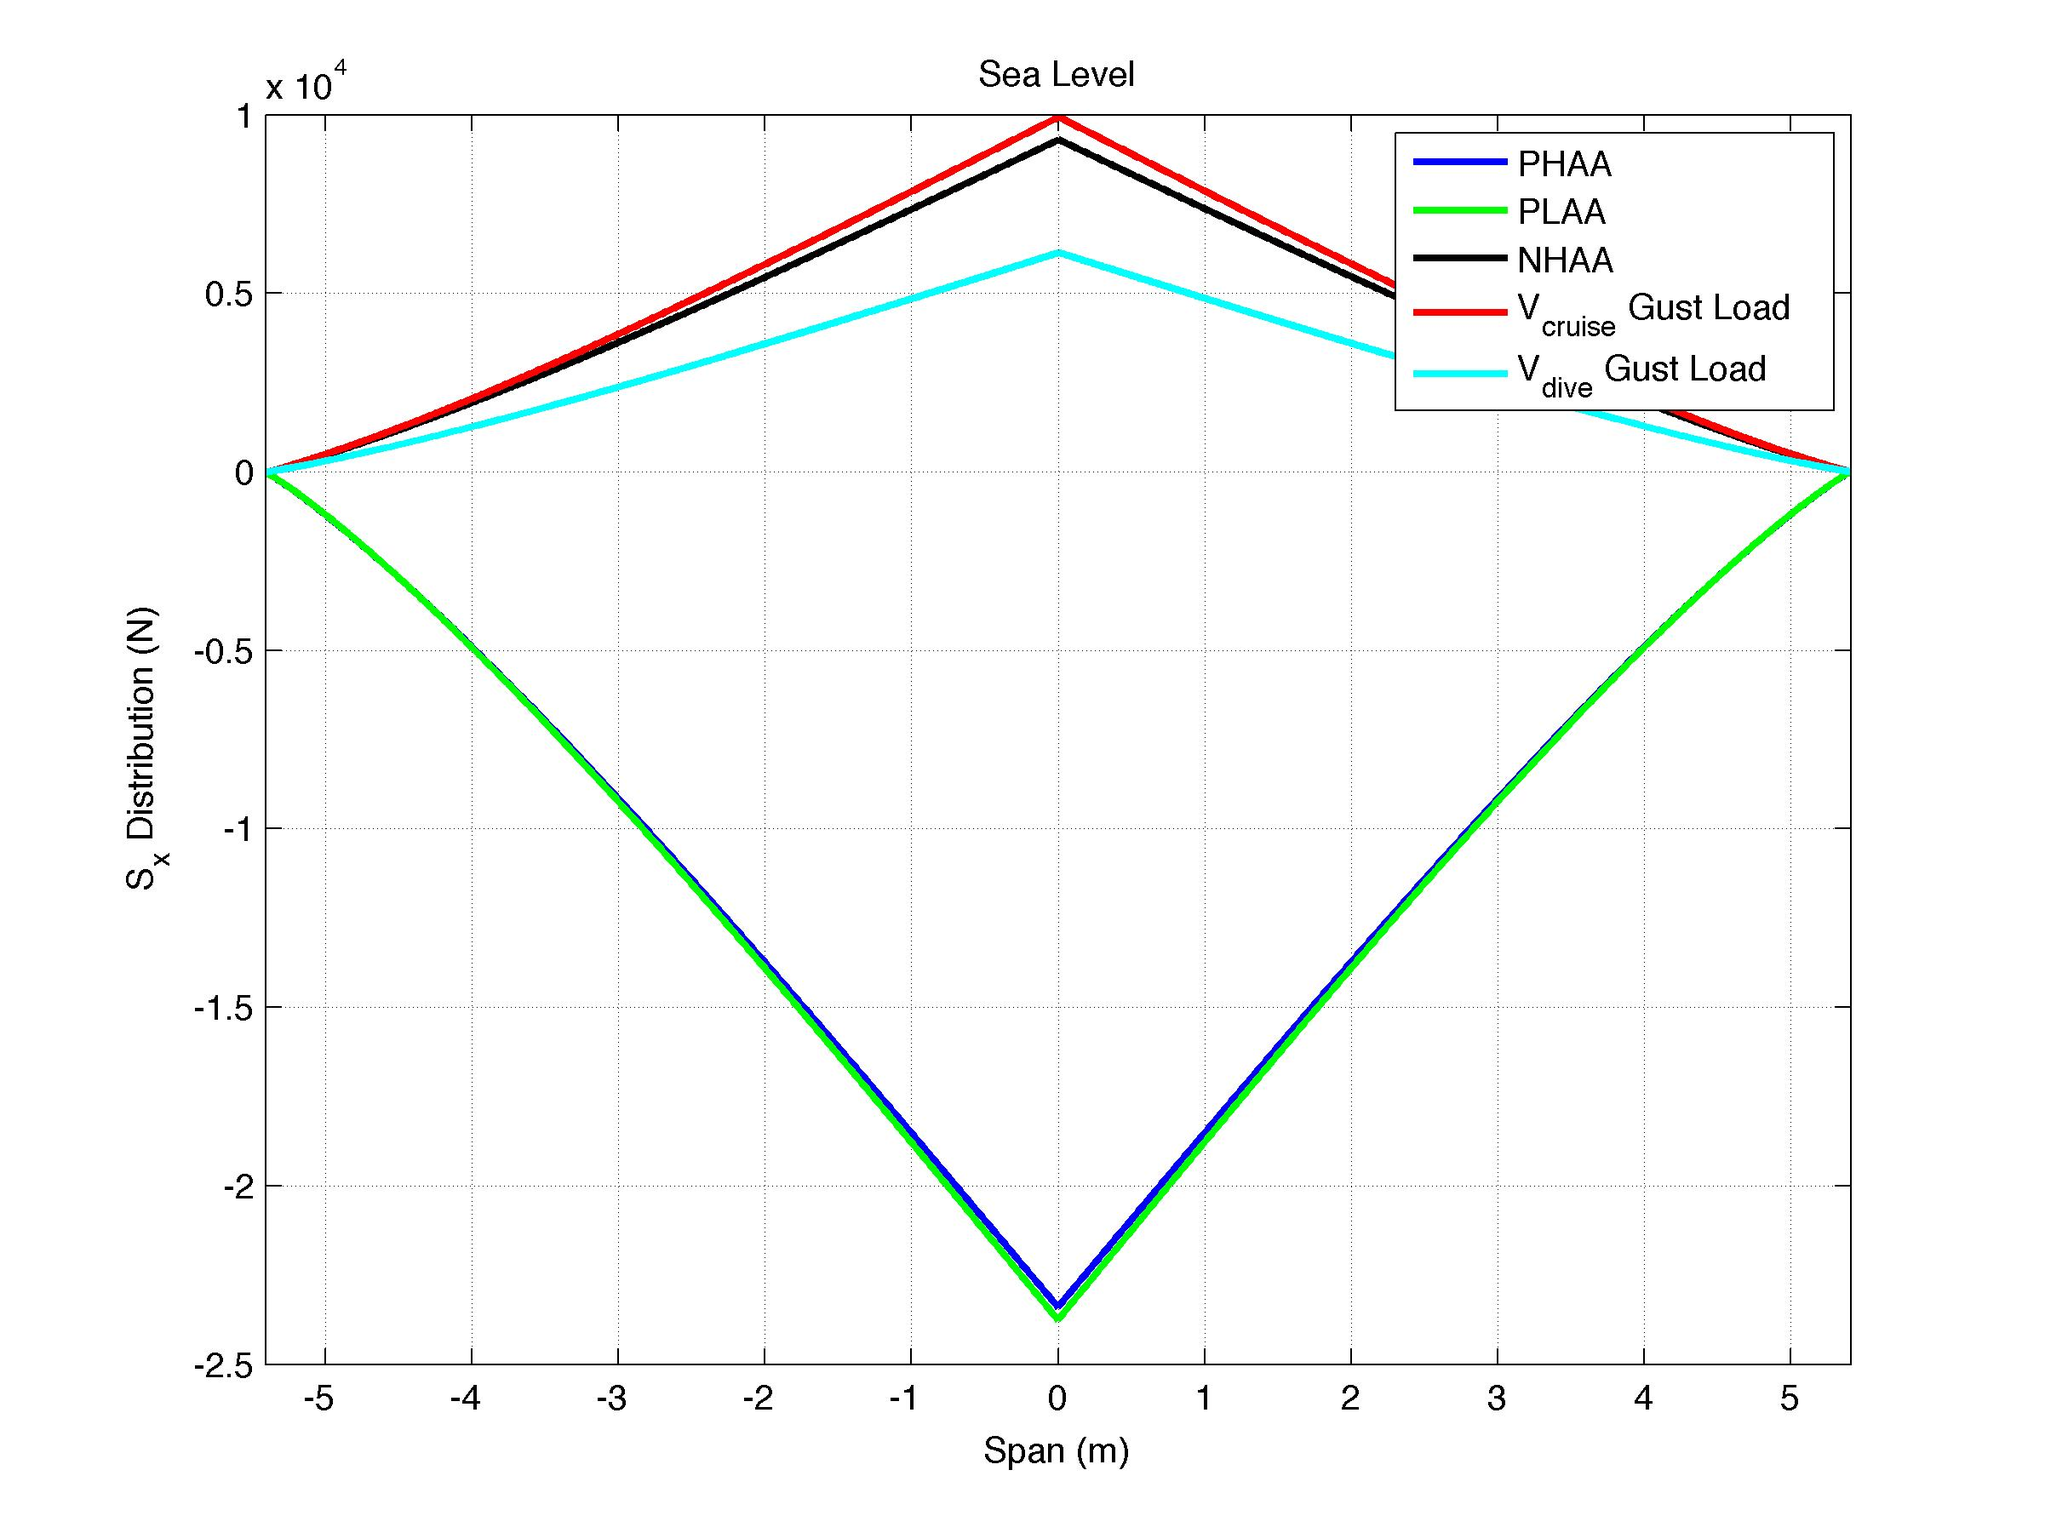
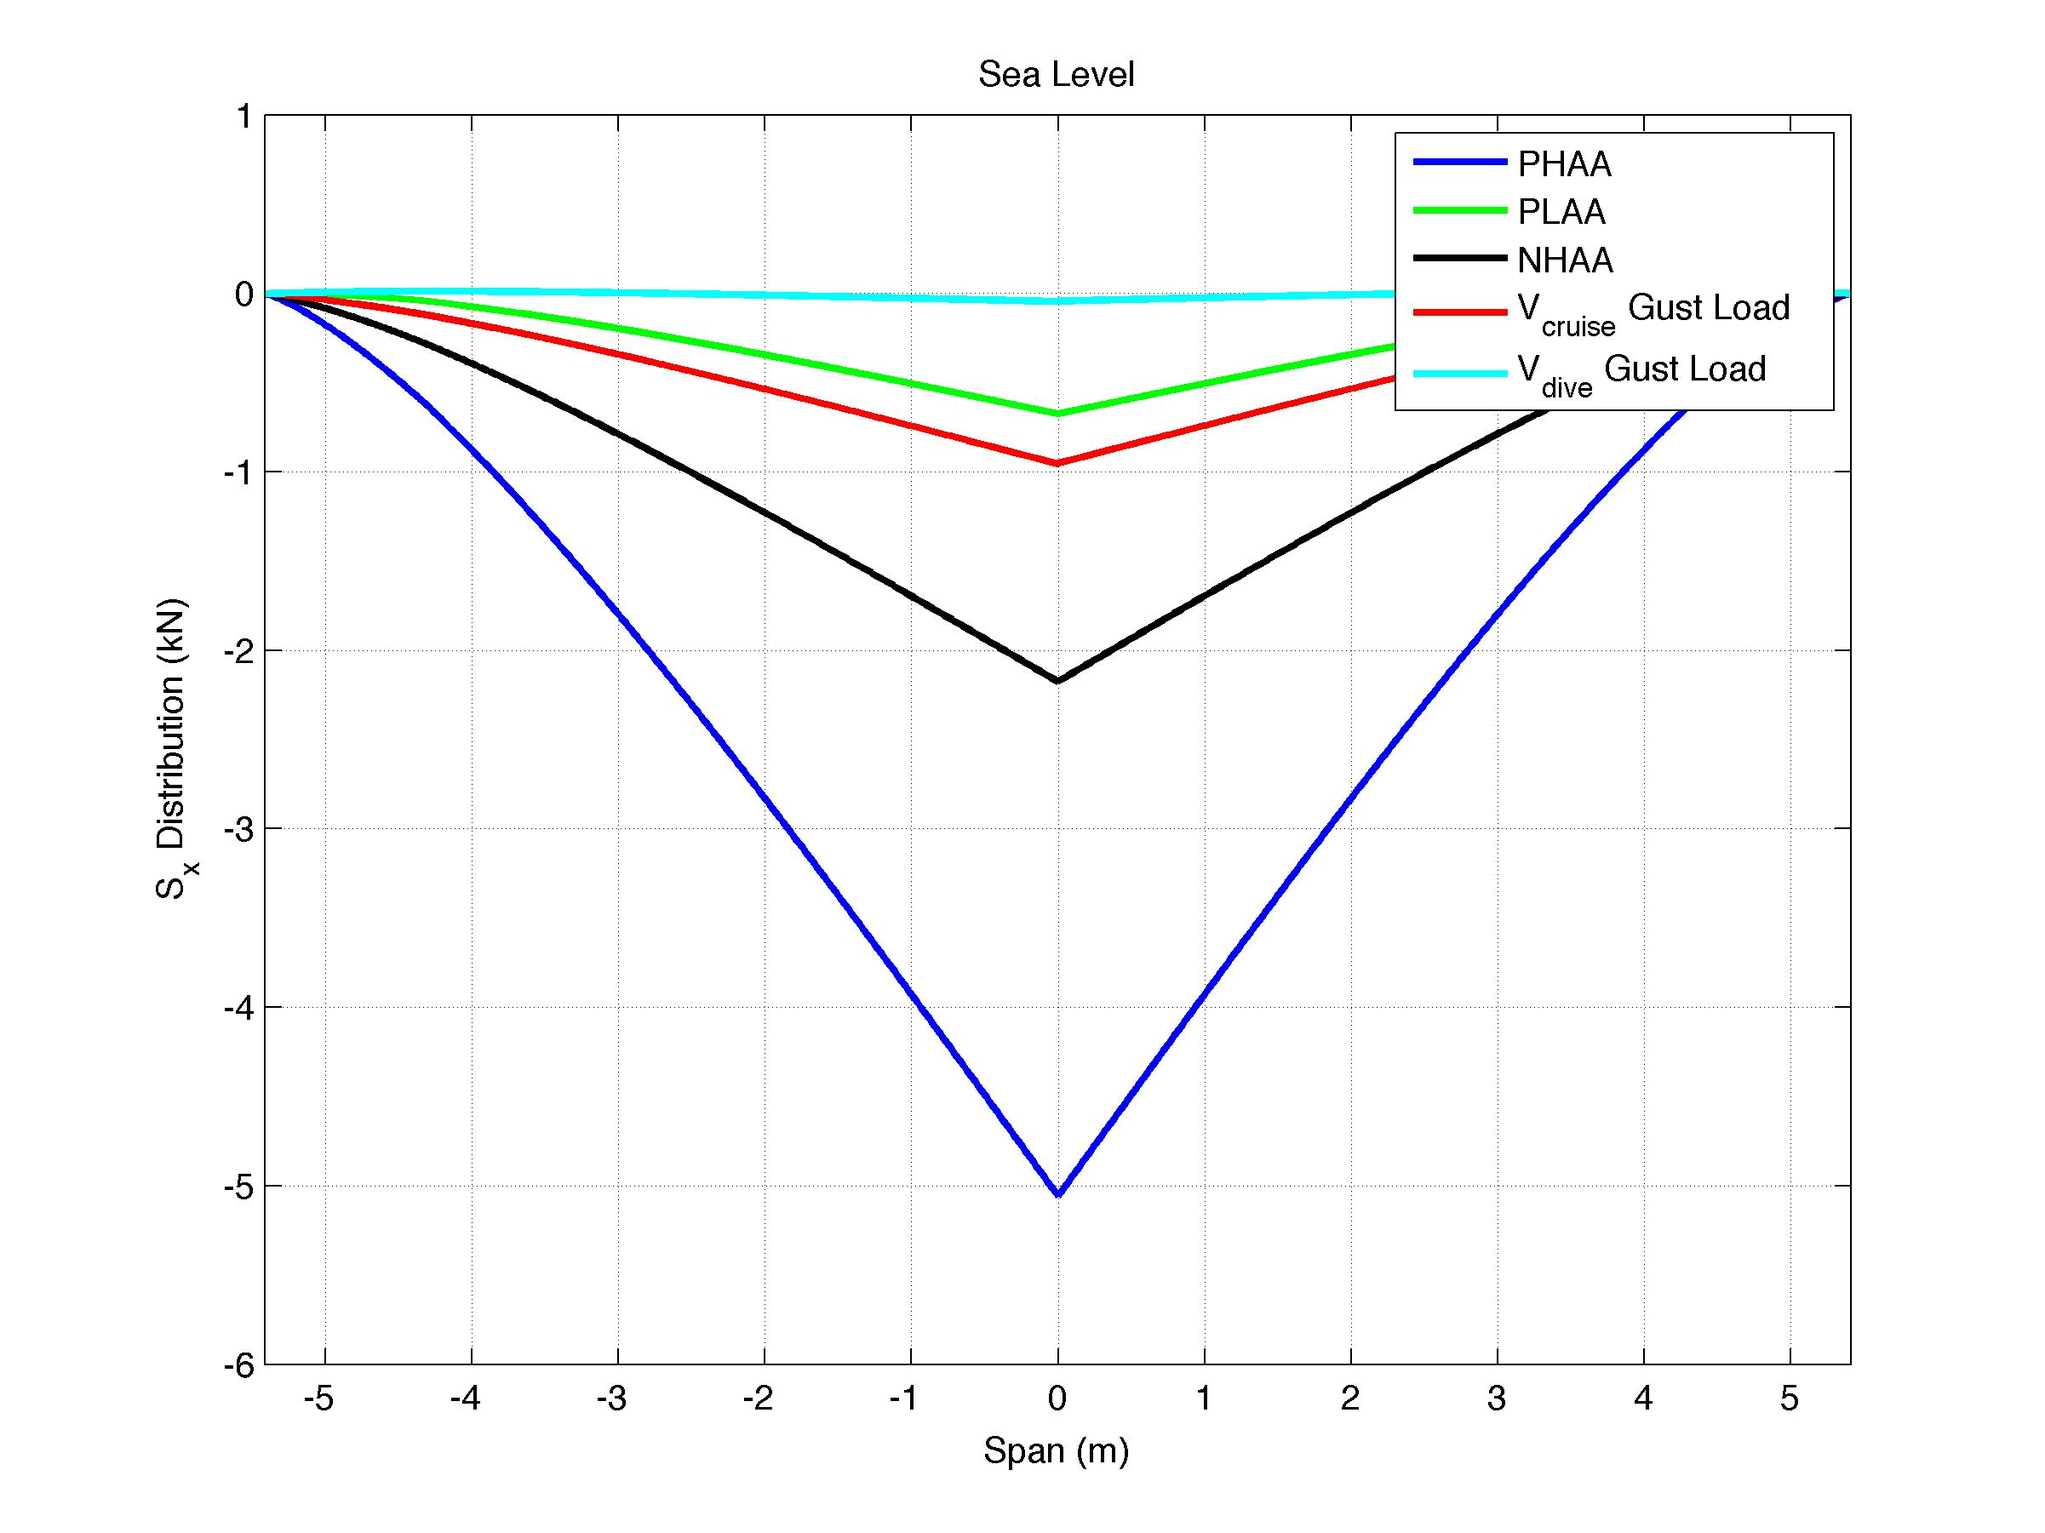
Graph max sigma

diff --git a/main.m b/main.m
@@ -4,9 +4,14 @@ clc;
 
 PLOT_FLTENVELOPE = 0; % set 1 to plot and save flight envelope plots
 PLOT_AIRFOIL = 0;     % set 1 to plot and save airfoil section plots
-PLOT_LIFTCURVE = 0;   % set 1 to plot and save lift curve slope plot
+PLOT_LIFTCURVE = 1;   % set 1 to plot and save lift curve slope plot
 PLOT_SHEAR_FLOW = 0;
-PLOT_PREVIOUS = 0;    % set 1 to plot and save all load/shear plots
+PLOT_DEFLECTION = 1;    % set 1 to plot and save all load/shear plots
+PLOT_SHEAR = 1;
+PLOT_MOMENT = 1;
+PLOT_LOADS = 1;
+PLOT_SIGMAZZ = 1;
+
 
 clrstring = 'bgkrc';
 
@@ -56,7 +61,7 @@ for ii = 1:length(n_allow_slvl.n)
                                     n_allow_slvl.Cd(ii),n_allow_slvl.CM(ii),nz);
         
         %PLOT DISTRIBUTIONS
-        if PLOT_PREVIOUS
+        if PLOT_LOADS
         lift_ellip_fig = figure(100);
         hold on; box on; grid on;
         lef(ii) = plot(load_slvl(ii).z,load_slvl(ii).l_ellip,'Color',clrstring(ii),'linewidth',2);
@@ -100,26 +105,28 @@ for ii = 1:length(n_allow_slvl.n)
                                 load_slvl(ii).M0,c,Cx,Cy,PLOT_SHEAR_FLOW);             
         
         % PLOT
-        if PLOT_PREVIOUS
+        if PLOT_SHEAR
         sx_fig = figure(106);
         hold on; box on; grid on;
-        sxf(ii) = plot(shear_slvl(ii).z,shear_slvl(ii).Sx0,'Color',clrstring(ii),'linewidth',2);
-                  plot(-shear_slvl(ii).z,shear_slvl(ii).Sx0,'Color',clrstring(ii),'linewidth',2);
+        sxf(ii) = plot(shear_slvl(ii).z,shear_slvl(ii).Sx0/1e3,'Color',clrstring(ii),'linewidth',2);
+                  plot(-shear_slvl(ii).z,shear_slvl(ii).Sx0/1e3,'Color',clrstring(ii),'linewidth',2);
         
         sy_fig = figure(107);
         hold on; box on; grid on;
-        syf(ii) = plot(shear_slvl(ii).z,shear_slvl(ii).Sy0,'Color',clrstring(ii),'linewidth',2);
-                  plot(-shear_slvl(ii).z,shear_slvl(ii).Sy0,'Color',clrstring(ii),'linewidth',2);
-                  
+        syf(ii) = plot(shear_slvl(ii).z,shear_slvl(ii).Sy0/1e3,'Color',clrstring(ii),'linewidth',2);
+                  plot(-shear_slvl(ii).z,shear_slvl(ii).Sy0/1e3,'Color',clrstring(ii),'linewidth',2);
+        end
+        
+        if PLOT_MOMENT
         mx_fig = figure(108);
         hold on; box on; grid on;
-        mxf(ii) = plot(moment_slvl(ii).z,moment_slvl(ii).Mx0,'Color',clrstring(ii),'linewidth',2);
-                  plot(-moment_slvl(ii).z,moment_slvl(ii).Mx0,'Color',clrstring(ii),'linewidth',2);
+        mxf(ii) = plot(moment_slvl(ii).z,moment_slvl(ii).Mx0/1e3,'Color',clrstring(ii),'linewidth',2);
+                  plot(-moment_slvl(ii).z,moment_slvl(ii).Mx0/1e3,'Color',clrstring(ii),'linewidth',2);
                   
         my_fig = figure(109);
         hold on; box on; grid on;
-        myf(ii) = plot(moment_slvl(ii).z,moment_slvl(ii).My0,'Color',clrstring(ii),'linewidth',2);
-                  plot(-moment_slvl(ii).z,moment_slvl(ii).My0,'Color',clrstring(ii),'linewidth',2);        
+        myf(ii) = plot(moment_slvl(ii).z,moment_slvl(ii).My0/1e3,'Color',clrstring(ii),'linewidth',2);
+                  plot(-moment_slvl(ii).z,moment_slvl(ii).My0/1e3,'Color',clrstring(ii),'linewidth',2);        
         end
                   
         % DETERMINE DEFLECTIONS
@@ -127,7 +134,7 @@ for ii = 1:length(n_allow_slvl.n)
                                     moment_slvl(ii).Mx0,moment_slvl(ii).My0,...
                                     load_slvl(ii).wx0,load_slvl(ii).wy0);
                                 
-        if PLOT_PREVIOUS
+        if PLOT_DEFLECTION
         u_fig = figure(110);
         hold on; box on; grid on;
         uf(ii) = plot(deflection_slvl(ii).z,deflection_slvl(ii).u*1000,'Color',clrstring(ii),'linewidth',2);
@@ -143,7 +150,7 @@ for ii = 1:length(n_allow_slvl.n)
         [sigma_zz_slvl(ii)] = calc_sigmazz(Ixx,Iyy,Ixy,...
                                 moment_slvl(ii).Mx0(1),moment_slvl(ii).My0(1),...
                                 airf_geo.x,airf_geo.yU,airf_geo.x,airf_geo.yL);
-                            
+
     end
 end
 sigma_zz_MAX_slvl_val = max([sigma_zz_slvl(1:end).max])/1e6;
@@ -156,7 +163,7 @@ disp(strjoin(['Max tau_sz at Sea Level : ' num2str(tau_sz_MAX_slvl_val) ...
     'MPa, occurs at : ' n_allow_slvl.name(tau_sz_MAX_slvl_ind)]))
 
 
-if PLOT_PREVIOUS
+if PLOT_LOADS
 figure(100);    xlabel('Span (m)');     ylabel('Elliptical Lift Distribution (N/m)');
                 legend(lef(:),n_allow_slvl(:).name);    xlim([-b/2 b/2]);
                 title('Sea Level'); pos = get(lift_ellip_fig,'position');
@@ -192,31 +199,37 @@ figure(105);    xlabel('Span (m)');     ylabel('w_y Distribution (N/m)');
                 title('Sea Level'); pos = get(wy_fig,'position');
                 set(wy_fig,'position',[pos(1:2) pos(3:4)*1.5]);
                 print(wy_fig,[pwd '/Load_Distribution_Figures/SLVL_wy'],'-djpeg','-r300');
+end
 
-figure(106);    xlabel('Span (m)');     ylabel('S_x Distribution (N)');
+if PLOT_SHEAR
+figure(106);    xlabel('Span (m)');     ylabel('S_x Distribution (kN)');
                 legend(sxf(:),n_allow_slvl(:).name);    xlim([-b/2 b/2]);
                 title('Sea Level'); pos = get(sx_fig,'position');
                 set(sx_fig,'position',[pos(1:2) pos(3:4)*1.5]);
                 print(sx_fig,[pwd '/Load_Distribution_Figures/SLVL_Sx'],'-djpeg','-r300');
                 
-figure(107);    xlabel('Span (m)');     ylabel('S_y Distribution (N)');
+figure(107);    xlabel('Span (m)');     ylabel('S_y Distribution (kN)');
                 legend(syf(:),n_allow_slvl(:).name);    xlim([-b/2 b/2]);
                 title('Sea Level'); pos = get(sy_fig,'position');
                 set(sy_fig,'position',[pos(1:2) pos(3:4)*1.5]);
                 print(sy_fig,[pwd '/Load_Distribution_Figures/SLVL_Sy'],'-djpeg','-r300');
-                
-figure(108);    xlabel('Span (m)');     ylabel('M_x Distribution (Nm)');
+end
+
+if PLOT_MOMENT
+figure(108);    xlabel('Span (m)');     ylabel('M_x Distribution (kNm)');
                 legend(mxf(:),n_allow_slvl(:).name);    xlim([-b/2 b/2]);
                 title('Sea Level'); pos = get(mx_fig,'position');
                 set(mx_fig,'position',[pos(1:2) pos(3:4)*1.5]);
                 print(mx_fig,[pwd '/Load_Distribution_Figures/SLVL_Mx'],'-djpeg','-r300');
                 
-figure(109);    xlabel('Span (m)');     ylabel('M_y Distribution (Nm)');
+figure(109);    xlabel('Span (m)');     ylabel('M_y Distribution (kNm)');
                 legend(myf(:),n_allow_slvl(:).name);    xlim([-b/2 b/2]);
                 title('Sea Level'); pos = get(my_fig,'position');
                 set(my_fig,'position',[pos(1:2) pos(3:4)*1.5]);
                 print(my_fig,[pwd '/Load_Distribution_Figures/SLVL_My'],'-djpeg','-r300');
+end
 
+if PLOT_DEFLECTION
 figure(110);    xlabel('Span (m)');     ylabel('u deflection (mm)');
                 legend(uf(:),n_allow_slvl(:).name);    xlim([-b/2 b/2]);
                 title('Sea Level'); pos = get(u_fig,'position');
@@ -228,9 +241,19 @@ figure(111);    xlabel('Span (m)');     ylabel('v deflection (mm)');
                 title('Sea Level'); pos = get(v_fig,'position');
                 set(v_fig,'position',[pos(1:2) pos(3:4)*1.5]);
                 print(v_fig,[pwd '/Deflection_Figures/SLVL_v'],'-djpeg','-r300');                
-
 end
-                
+
+if PLOT_SIGMAZZ
+sigmazz_fig = figure(112);
+hold on; box on; grid on;
+plot(airf_geo.x,sigma_zz_slvl(sigma_zz_MAX_slvl_ind).upper/1e6,'b','linewidth',2);
+plot(airf_geo.x,sigma_zz_slvl(sigma_zz_MAX_slvl_ind).lower/1e6,'g','linewidth',2);
+xlabel('Chord (m)');    ylabel('Direct Stress (\sigma_{zz}) (MPa)');
+legend('Upper Surface','Lower Surface');    xlim([0-Cx c-Cx]);
+title('Sea Level'); pos = get(sigmazz_fig,'position');
+set(sigmazz_fig,'position',[pos(1:2) pos(3:4)*1.5]);
+print(sigmazz_fig,[pwd '/Stress_Figure/SLVL_DirectStress'],'-djpeg','-r300');
+end
 
 %%%%%%%%%%%%%%%%%%%%%%%%%%%%%%%%%%%%%%%%%%%%%%%%%%%%%%%%%%%%%%%%%%%%%%%%%%%
 %%%           LOAD DISTRIBUTIONS @ CEILING   (all critical pts)         %%%
@@ -243,7 +266,7 @@ for ii = 1:length(n_allow_ceil.n)
                                     n_allow_ceil.Cd(ii),n_allow_ceil.CM(ii),nz);
         
         %PLOT DISTRIBUTIONS
-        if PLOT_PREVIOUS
+        if PLOT_LOADS
         lift_ellip_fig = figure(200);
         hold on; box on; grid on;
         lef(ii) = plot(load_ceil(ii).z,load_ceil(ii).l_ellip,'Color',clrstring(ii),'linewidth',2);
@@ -285,27 +308,27 @@ for ii = 1:length(n_allow_ceil.n)
                                 moment_ceil(ii).Mx0, moment_ceil(ii).My0,...
                                 shear_ceil(ii).Sx0, shear_ceil(ii).Sy0,...
                                 load_ceil(ii).M0,c,Cx,Cy,PLOT_SHEAR_FLOW);                     % PLOT
-        if PLOT_PREVIOUS
+        if PLOT_SHEAR
         sx_fig = figure(206);
         hold on; box on; grid on;
-        sxf(ii) = plot(shear_ceil(ii).z,shear_ceil(ii).Sx0,'Color',clrstring(ii),'linewidth',2);
-                  plot(-shear_ceil(ii).z,shear_ceil(ii).Sx0,'Color',clrstring(ii),'linewidth',2);
+        sxf(ii) = plot(shear_ceil(ii).z,shear_ceil(ii).Sx0/1e3,'Color',clrstring(ii),'linewidth',2);
+                  plot(-shear_ceil(ii).z,shear_ceil(ii).Sx0/1e3,'Color',clrstring(ii),'linewidth',2);
         
         sy_fig = figure(207);
         hold on; box on; grid on;
-        syf(ii) = plot(shear_ceil(ii).z,shear_ceil(ii).Sy0,'Color',clrstring(ii),'linewidth',2);
-                  plot(-shear_ceil(ii).z,shear_ceil(ii).Sy0,'Color',clrstring(ii),'linewidth',2);
-                  
+        syf(ii) = plot(shear_ceil(ii).z,shear_ceil(ii).Sy0/1e3,'Color',clrstring(ii),'linewidth',2);
+                  plot(-shear_ceil(ii).z,shear_ceil(ii).Sy0/1e3,'Color',clrstring(ii),'linewidth',2);
+        end
+        if PLOT_MOMENT
         mx_fig = figure(208);
         hold on; box on; grid on;
-        mxf(ii) = plot(moment_ceil(ii).z,moment_ceil(ii).Mx0,'Color',clrstring(ii),'linewidth',2);
-                  plot(-moment_ceil(ii).z,moment_ceil(ii).Mx0,'Color',clrstring(ii),'linewidth',2);
+        mxf(ii) = plot(moment_ceil(ii).z,moment_ceil(ii).Mx0/1e3,'Color',clrstring(ii),'linewidth',2);
+                  plot(-moment_ceil(ii).z,moment_ceil(ii).Mx0/1e3,'Color',clrstring(ii),'linewidth',2);
                   
         my_fig = figure(209);
         hold on; box on; grid on;
-        myf(ii) = plot(moment_ceil(ii).z,moment_ceil(ii).My0,'Color',clrstring(ii),'linewidth',2);
-                  plot(-moment_ceil(ii).z,moment_ceil(ii).My0,'Color',clrstring(ii),'linewidth',2);        
-      
+        myf(ii) = plot(moment_ceil(ii).z,moment_ceil(ii).My0/1e3,'Color',clrstring(ii),'linewidth',2);
+                  plot(-moment_ceil(ii).z,moment_ceil(ii).My0/1e3,'Color',clrstring(ii),'linewidth',2);        
         end
         
         % DETERMINE DEFLECTIONS
@@ -313,7 +336,7 @@ for ii = 1:length(n_allow_ceil.n)
                                     moment_ceil(ii).Mx0,moment_ceil(ii).My0,...
                                     load_ceil(ii).wx0,load_ceil(ii).wy0);
         
-        if PLOT_PREVIOUS
+        if PLOT_DEFLECTION
         u_fig = figure(210);
         hold on; box on; grid on;
         uf(ii) = plot(deflection_ceil(ii).z,deflection_ceil(ii).u*1000,'Color',clrstring(ii),'linewidth',2);
@@ -329,6 +352,7 @@ for ii = 1:length(n_allow_ceil.n)
         [sigma_zz_ceil(ii)] = calc_sigmazz(Ixx,Iyy,Ixy,...
                             moment_ceil(ii).Mx0(1),moment_ceil(ii).My0(1),...
                             airf_geo.x,airf_geo.yU,airf_geo.x,airf_geo.yL);
+                  
     end
 end
 
@@ -341,7 +365,7 @@ tau_sz_MAX_ceil_ind = find([tau_sz_ceil(1:end).max]/1e6 == tau_sz_MAX_ceil_val);
 disp(strjoin(['Max tau_sz at Sea Level : ' num2str(tau_sz_MAX_ceil_val) ...
     'MPa, occurs at : ' n_allow_slvl.name(tau_sz_MAX_ceil_ind)]))
 
-if PLOT_PREVIOUS
+if PLOT_LOADS
 figure(200);    xlabel('Span (m)');     ylabel('Elliptical Lift Distribution (N/m)');
                 legend(lef(:),n_allow_ceil(:).name);    xlim([-b/2 b/2]);
                 title('Ceiling Altitude'); pos = get(lift_ellip_fig,'position');
@@ -377,31 +401,37 @@ figure(205);    xlabel('Span (m)');     ylabel('w_y Distribution (N/m)');
                 title('Ceiling Altitude'); pos = get(wy_fig,'position');
                 set(wy_fig,'position',[pos(1:2) pos(3:4)*1.5]);
                 print(wy_fig,[pwd '/Load_Distribution_Figures/CEIL_wy'],'-djpeg','-r300');
+end
 
-figure(206);    xlabel('Span (m)');     ylabel('S_x Distribution (N)');
+if PLOT_SHEAR
+figure(206);    xlabel('Span (m)');     ylabel('S_x Distribution (kN)');
                 legend(sxf(:),n_allow_ceil(:).name);    xlim([-b/2 b/2]);
                 title('Ceiling Altitude'); pos = get(sx_fig,'position');
                 set(sx_fig,'position',[pos(1:2) pos(3:4)*1.5]);
                 print(sx_fig,[pwd '/Load_Distribution_Figures/CEIL_Sx'],'-djpeg','-r300');
                 
-figure(207);    xlabel('Span (m)');     ylabel('S_y Distribution (N)');
+figure(207);    xlabel('Span (m)');     ylabel('S_y Distribution (kN)');
                 legend(syf(:),n_allow_ceil(:).name);    xlim([-b/2 b/2]);
                 title('Ceiling Altitude'); pos = get(sy_fig,'position');
                 set(sy_fig,'position',[pos(1:2) pos(3:4)*1.5]);
                 print(sy_fig,[pwd '/Load_Distribution_Figures/CEIL_Sy'],'-djpeg','-r300');
-                
-figure(208);    xlabel('Span (m)');     ylabel('M_x Distribution (Nm)');
+end
+
+if PLOT_MOMENT
+figure(208);    xlabel('Span (m)');     ylabel('M_x Distribution (kNm)');
                 legend(mxf(:),n_allow_ceil(:).name);    xlim([-b/2 b/2]);
                 title('Ceiling Altitude'); pos = get(mx_fig,'position');
                 set(mx_fig,'position',[pos(1:2) pos(3:4)*1.5]);
                 print(mx_fig,[pwd '/Load_Distribution_Figures/CEIL_Mx'],'-djpeg','-r300');
                 
-figure(209);    xlabel('Span (m)');     ylabel('M_y Distribution (Nm)');
+figure(209);    xlabel('Span (m)');     ylabel('M_y Distribution (kNm)');
                 legend(myf(:),n_allow_ceil(:).name);    xlim([-b/2 b/2]);
                 title('Ceiling Altitude'); pos = get(my_fig,'position');
                 set(my_fig,'position',[pos(1:2) pos(3:4)*1.5]);
                 print(my_fig,[pwd '/Load_Distribution_Figures/CEIL_My'],'-djpeg','-r300');
+end
 
+if PLOT_DEFLECTION
 figure(210);    xlabel('Span (m)');     ylabel('u deflection (mm)');
                 legend(uf(:),n_allow_ceil(:).name);    xlim([-b/2 b/2]);
                 title('Ceiling Altitude'); pos = get(u_fig,'position');
@@ -413,8 +443,20 @@ figure(211);    xlabel('Span (m)');     ylabel('v deflection (mm)');
                 title('Ceiling Altitude'); pos = get(v_fig,'position');
                 set(v_fig,'position',[pos(1:2) pos(3:4)*1.5]);
                 print(v_fig,[pwd '/Deflection_Figures/CEIL_v'],'-djpeg','-r300');
-
 end
+
+if PLOT_SIGMAZZ
+sigmazz_fig = figure(212);
+hold on; box on; grid on;
+plot(airf_geo.x,sigma_zz_slvl(sigma_zz_MAX_ceil_ind).upper/1e6,'b','linewidth',2);
+plot(airf_geo.x,sigma_zz_slvl(sigma_zz_MAX_ceil_ind).lower/1e6,'g','linewidth',2);
+xlabel('Chord (m)');    ylabel('Direct Stress (\sigma_{zz}) (MPa)');
+legend('Upper Surface','Lower Surface');    xlim([0-Cx c-Cx]);
+title('Ceiling Altitude'); pos = get(sigmazz_fig,'position');
+set(sigmazz_fig,'position',[pos(1:2) pos(3:4)*1.5]);
+print(sigmazz_fig,[pwd '/Stress_Figure/CEIL_DirectStress'],'-djpeg','-r300');
+end
+
 
 %%%%%%%%%%%%%%%%%%%%%%%%%%%%%%%%%%%%%%%%%%%%%%%%%%%%%%%%%%%%%%%%%%%%%%%%%%%
 %%%%                        Buckling & Fatigue                         %%%%
